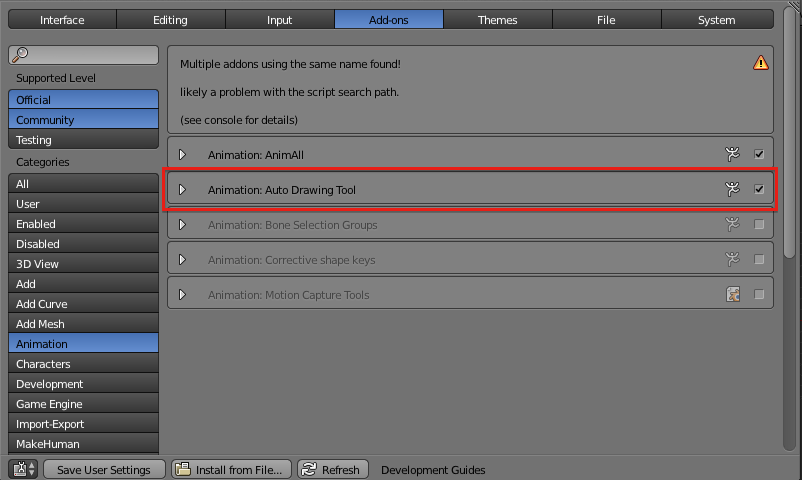
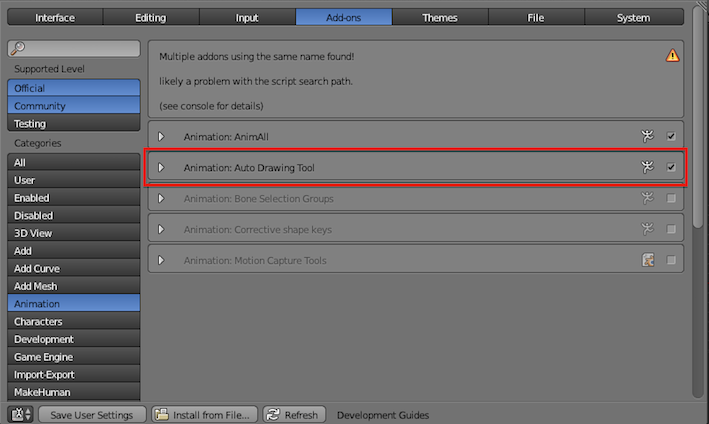
Change image size.

diff --git a/README.md b/README.md
@@ -11,7 +11,7 @@ A blender's add-on: Freestyle with build modifier.
 ---
 
 ## Basic Usage
-![auto-drawing-tool_tutorial_toolshelf1](/src/auto-drawing-tool_tutorial_toolshelf1.png)
+![auto-drawing-tool_tutorial_toolshelf1](./src/auto-drawing-tool_tutorial_toolshelf1.png)
 
 1. Select an object.
 2. Go to toolshelf on the left of 3D view. In Animation tab, there is "Auto Drawing Tool" box.
@@ -22,7 +22,7 @@ A blender's add-on: Freestyle with build modifier.
 
 ## Options
 Option setting panel comes in bottom left of 3D view, after click "Set Auto Drawing" button.
-![auto-drawing-tool_tutorial_options1](/src/auto-drawing-tool_tutorial_options1.png =250x)
+![auto-drawing-tool_tutorial_options1](./src/auto-drawing-tool_tutorial_options1.png)
 ####Enable/Disable process
 You can turn on or off each settings for auto drawing.
 
